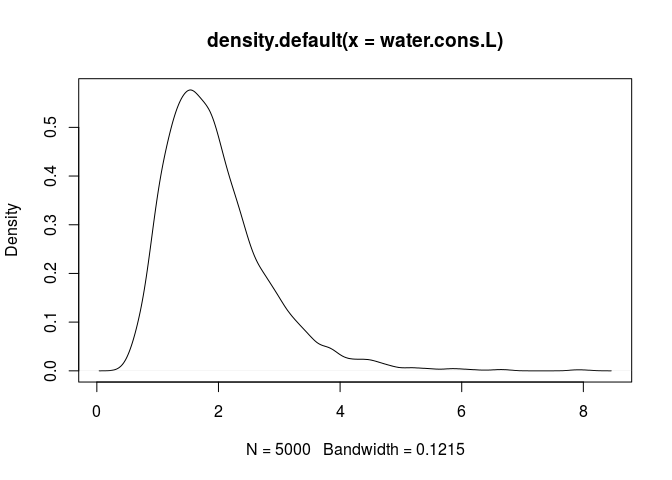
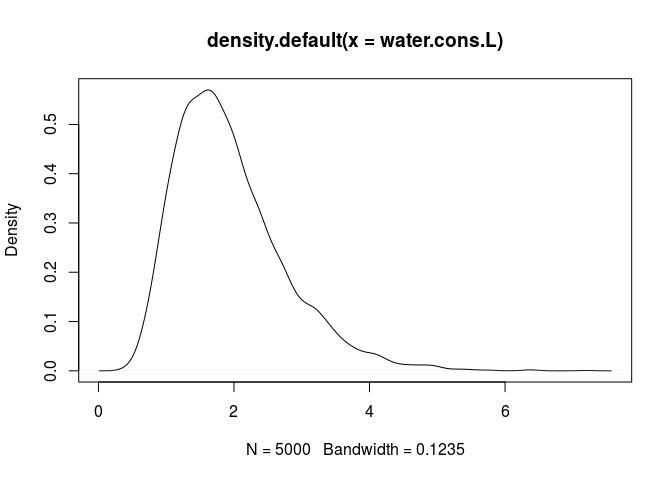
Updated comments, adjusted character spacing.

diff --git a/samples/ex0618prob.md b/samples/ex0618prob.md
@@ -3,7 +3,9 @@ Jane Pouzou
 License: CC BY-SA 4.0  
 
 This document offers a probabilistic solution in R for the daily microbial 
-exposure from drinking water consumption for [Example 6.18](https://books.google.com/books?id=ejTKAwAAQBAJ&lpg=PT265&ots=6q9TSELe3B&pg=PT265#v=onepage&q&f=false) from pages 215-216 of:
+exposure from drinking water consumption, swimming in surface water and 
+shellfish consumption for 
+[Example 6.18](https://books.google.com/books?id=ejTKAwAAQBAJ&lpg=PT265&ots=6q9TSELe3B&pg=PT265#v=onepage&q&f=false) from pages 215-216 of:
 
 [Quantitative Microbial Risk Assessment, 2nd Edition](http://www.wiley.com/WileyCDA/WileyTitle/productCd-1118145291,subjectCd-CH20.html) 
 by Charles N. Haas, Joan B. Rose, and Charles P. Gerba. (Wiley, 2014).
@@ -11,15 +13,17 @@ by Charles N. Haas, Joan B. Rose, and Charles P. Gerba. (Wiley, 2014).
 
 ```r
 # A probabilistic solution in R for the daily microbial exposure from drinking
-# water consumption for Example 6.18 from Quantitative Microbial Risk 
-# Assessment, 2nd Edition by Charles N. Haas, Joan B. Rose, and 
-# Charles P. Gerba. (Wiley, 2014).
+# water consumption, swimming in surface water, and shellfish consumption for 
+# Example 6.18 from Quantitative Microbial Risk Assessment, 2nd Edition by 
+# Charles N. Haas, Joan B. Rose, and Charles P. Gerba. (Wiley, 2014).
 
 # Copyright (c) Jane Pouzou
 # License: CC BY-SA 4.0 - https://creativecommons.org/licenses/by-sa/4.0/
 
-# Divide by 1000 puts units in Liters/day.  Values for meanlog and sdlog are 
-# from the QMRA textbook.
+# Generate 5000 random values from a log-normal distribution to estimate 
+# exposure from consumption of drinking water (ml/day). Divide by 1000 mL/L 
+# to get consumption in liters/day.  Values for meanlog and sdlog are from the 
+# QMRA textbook (Haas, 2014), page 216, Table 6.30.
 water.cons.L <- rlnorm(5000, meanlog = 7.49, sdlog = 0.407) / 1000
 
 # Plot the kernal density curve of the generated values just as a check.
@@ -29,9 +33,9 @@ plot(density(water.cons.L))
 ![](ex0618prob_files/figure-html/unnamed-chunk-1-1.png)<!-- -->
 
 ```r
-# Sample from a discrete distribution with assigned probabilities of each 
-# outcome.
-swim.duration <- sample(x = c(0.5,1, 2, 2.6), 5000, replace = TRUE, 
+# Sample 5000 times from a discrete distribution of exposure from swimming in 
+# surface water with assigned probabilities of each outcome.
+swim.duration <- sample(x = c(0.5, 1, 2, 2.6), 5000, replace = TRUE, 
                         prob = c(0.1, 0.1, 0.2, 0.6))
 
 # Create a simple histogram of our distribution as a check.
@@ -41,19 +45,19 @@ hist(swim.duration)
 ![](ex0618prob_files/figure-html/unnamed-chunk-1-2.png)<!-- -->
 
 ```r
-# Now substituting into our original code:
-# Set display options for use with the print() function.
-options(digits = 3)
-
-# Create a data frame with input data.
+# Define additional variables provided in the example for three exposure types.
+#
+# Shellfish consumption
 shell.viral.load <- 1
-shell.cons <- 0.135
+shell.cons <- 9e-4 * 150  # 9e-4 Person-Days per year * 150 g per occurrence
+# Drinking water consumption
 dw.viral.load <- 0.001
+# Surface water consumption while swimming
 sw.viral.load <- 0.01
-sw.daily.IR <- 50
-sw.frequency <- 7
+sw.daily.IR <- 50         # Ingestion rate in mL of surface water
+sw.frequency <- 7         # Exposure frequency of 7 swims per year
 
-# Define a function to calculate risk.
+# Define a function to calculate microbial exposure risk.
 Risk.fcn <- function(shell.vl, shell.cons, water.cons.L, dw.vl, sw.vl, 
                      sw.daily.IR, sw.duration, sw.frequency) {
     ((shell.vl * shell.cons) + (water.cons.L * dw.vl) + 
